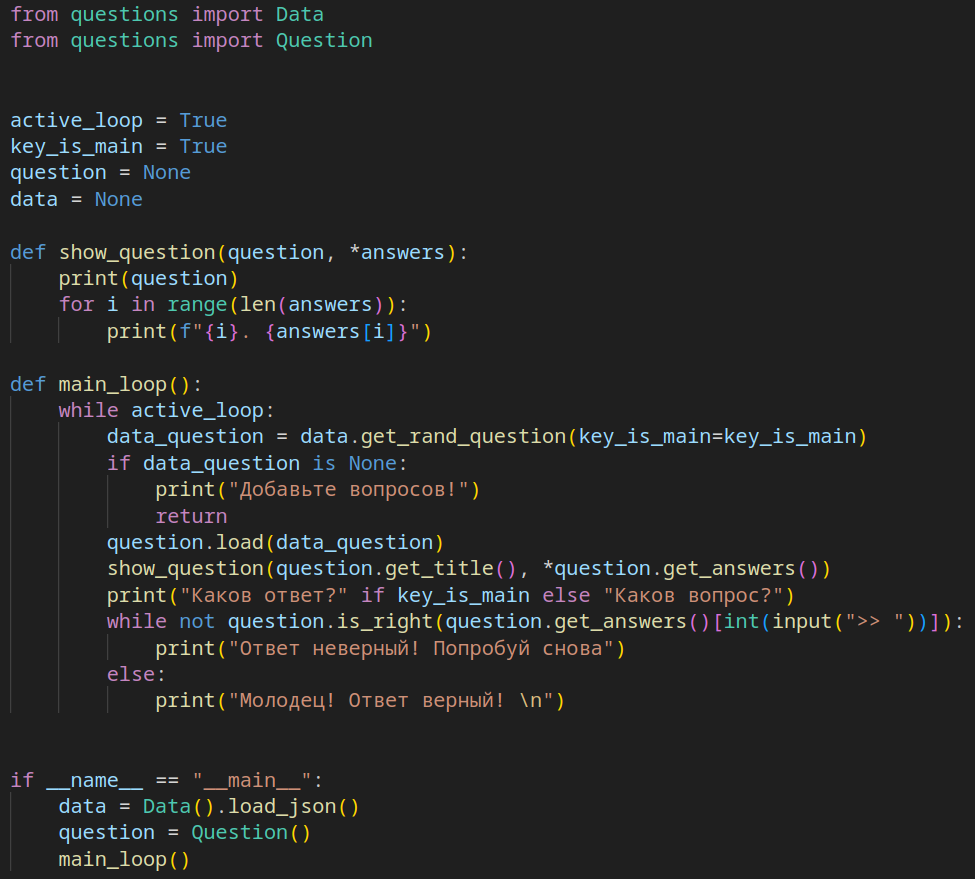
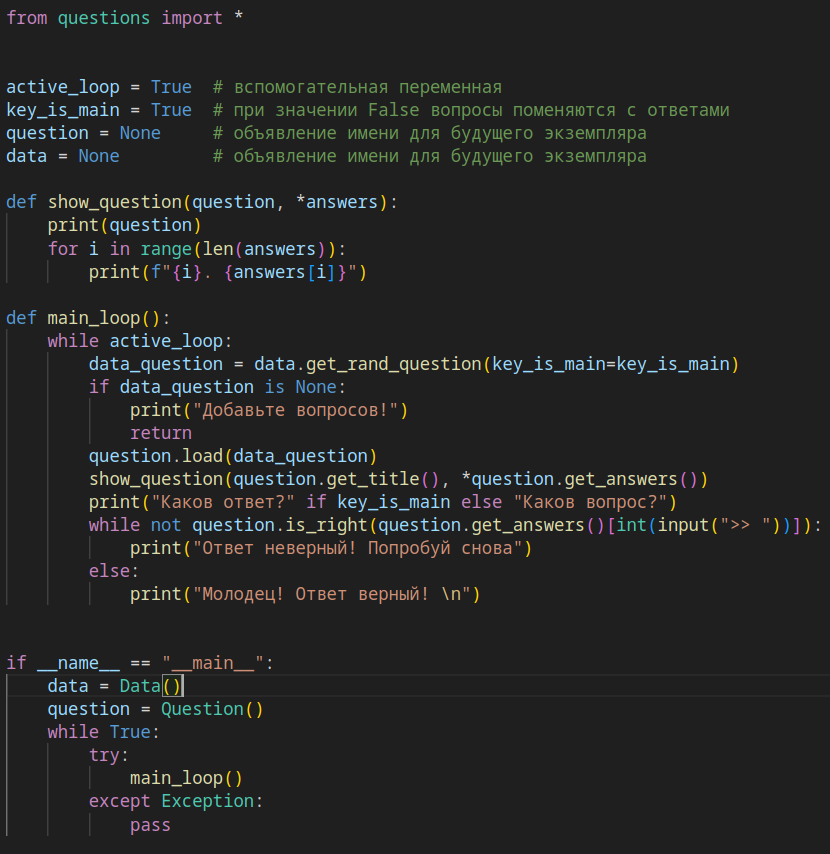
restruct data.py; delete default load_json func

diff --git a/questions/data.py b/questions/data.py
@@ -11,22 +11,31 @@ class Data:
         self._json_name = path_to_json
         self._data_json = None
 
-    def _is_exist_json(self) -> bool:
-        return os.path.exists(self._json_name)
+        if not self._is_normal_json():
+            self._create_json()
+        with open(self._json_name, "r", encoding="utf-8") as json_file:
+            self._data_json = json.loads(json_file.read())
 
-    def _is_normal_structure_json(self) -> bool:
+    def _is_normal_json(self) -> bool:
+        if not os.path.exists(self._json_name):
+            return False
         try:
             with open(self._json_name, "r", encoding="utf-8") as json_file:
                 data = json.loads(json_file.read())
-        except: return False
+        except:
+            logger.error("Некорректная структура json файла")
+            return False
         if not all(isinstance(group, str) for group in data.keys()):
+            logger.error("Ожидается наименование группы")
             return False
         for item in data.values():
             if not isinstance(item, dict):
+                logger.error("Ожидалось значение по наименованию группы (dict)")
                 return False
             for key, value in item.items():
                 if isinstance(key, str) and (isinstance(value, str) or isinstance(value, list)):
                     continue
+                logger.error("Ожидалось, что вопрос -> [str] , а ответ -> [str | list]")
                 return False
         return True     
 
@@ -42,24 +51,18 @@ class Data:
         with open(self._json_name, "w", encoding="utf-8") as json_file:
             json_file.write("{}")
 
+        logger.info("Создан новый " + self._json_name)
+
     def _update_json(self) -> None:
         with open(self._json_name, "w", encoding="utf-8") as json_file:
             data = json.dumps(self._data_json, ensure_ascii=False, indent=4)
             json_file.write(data)
 
-    def load_json(self) -> 'Data':
-        if not self._is_exist_json():
-            self._create_json()
-        if not self._is_normal_structure_json():
-            logger.error("Некорректная структура json файла")
-            self._create_json()
-        with open(self._json_name, "r", encoding="utf-8") as json_file:
-            self._data_json = json.loads(json_file.read())
-        return self
-
     def add_data(self, group: str, key: str, value: str) -> 'Data':
+        if not self._is_normal_json():
+            self._create_json()
         if any(not isinstance(name, str) for name in [group, key, value]):
-            logger.error("Ожидается group->str, key->str, value->str")
+            logger.error("Ожидается group -> [str], key -> [str], value -> [str]")
             return self
         if group not in self._data_json.keys():
             self._data_json[group] = {}
@@ -77,12 +80,16 @@ class Data:
 
         return self
 
+    def load_json(self, json_data: str = "{}") -> 'Data':
+        logger.warning("С недавнего периода load_json поменял свой функционал (подробнее на https://github.com/t1rin/Question)")
+        ...
+
     def get_groups(self) -> list:
         return list(self._data_json.keys())
     
     def get_items(self, group: str, key_is_main=True) -> list | None:
         if not isinstance(group, str):
-            logger.error("Ожидается group->str")
+            logger.error("Ожидается group -> [str]")
             return
         if group not in self._data_json.keys():
             logger.error("Не найдена группа " + group)
@@ -105,7 +112,7 @@ class Data:
             logger.error("Некорректное количество вариантов ответа")
             return 
         if any(not isinstance(name, str) for name in [title, group]):
-            logger.error("Ожидается group->str, title->str")
+            logger.error("Ожидается group -> [str], title -> [str]")
             return 
         if group not in self.get_groups():
             logger.error("Не найдена группа " + group)

diff --git a/examples/example2.py b/examples/example2.py
@@ -28,7 +28,7 @@ class App:
         self._q_warning = 2           # количество миганий в warning
 
         # инизиализация Модуля + загрузка данных
-        self._data = Data().load_json()
+        self._data = Data()
         self._question = Question()
 
         if self._data is None:

diff --git a/examples/example1.py b/examples/example1.py
@@ -30,7 +30,7 @@ def main_loop():
 
 
 if __name__ == "__main__":
-    data = Data().load_json()
+    data = Data()
     question = Question()
     while True:
         try:

diff --git a/README.md b/README.md
@@ -23,7 +23,7 @@
 
 #### — метод `load_json`
 
-позволяет загрузить данные из json файла
+...
 
 #### — метод `add_data`
 
